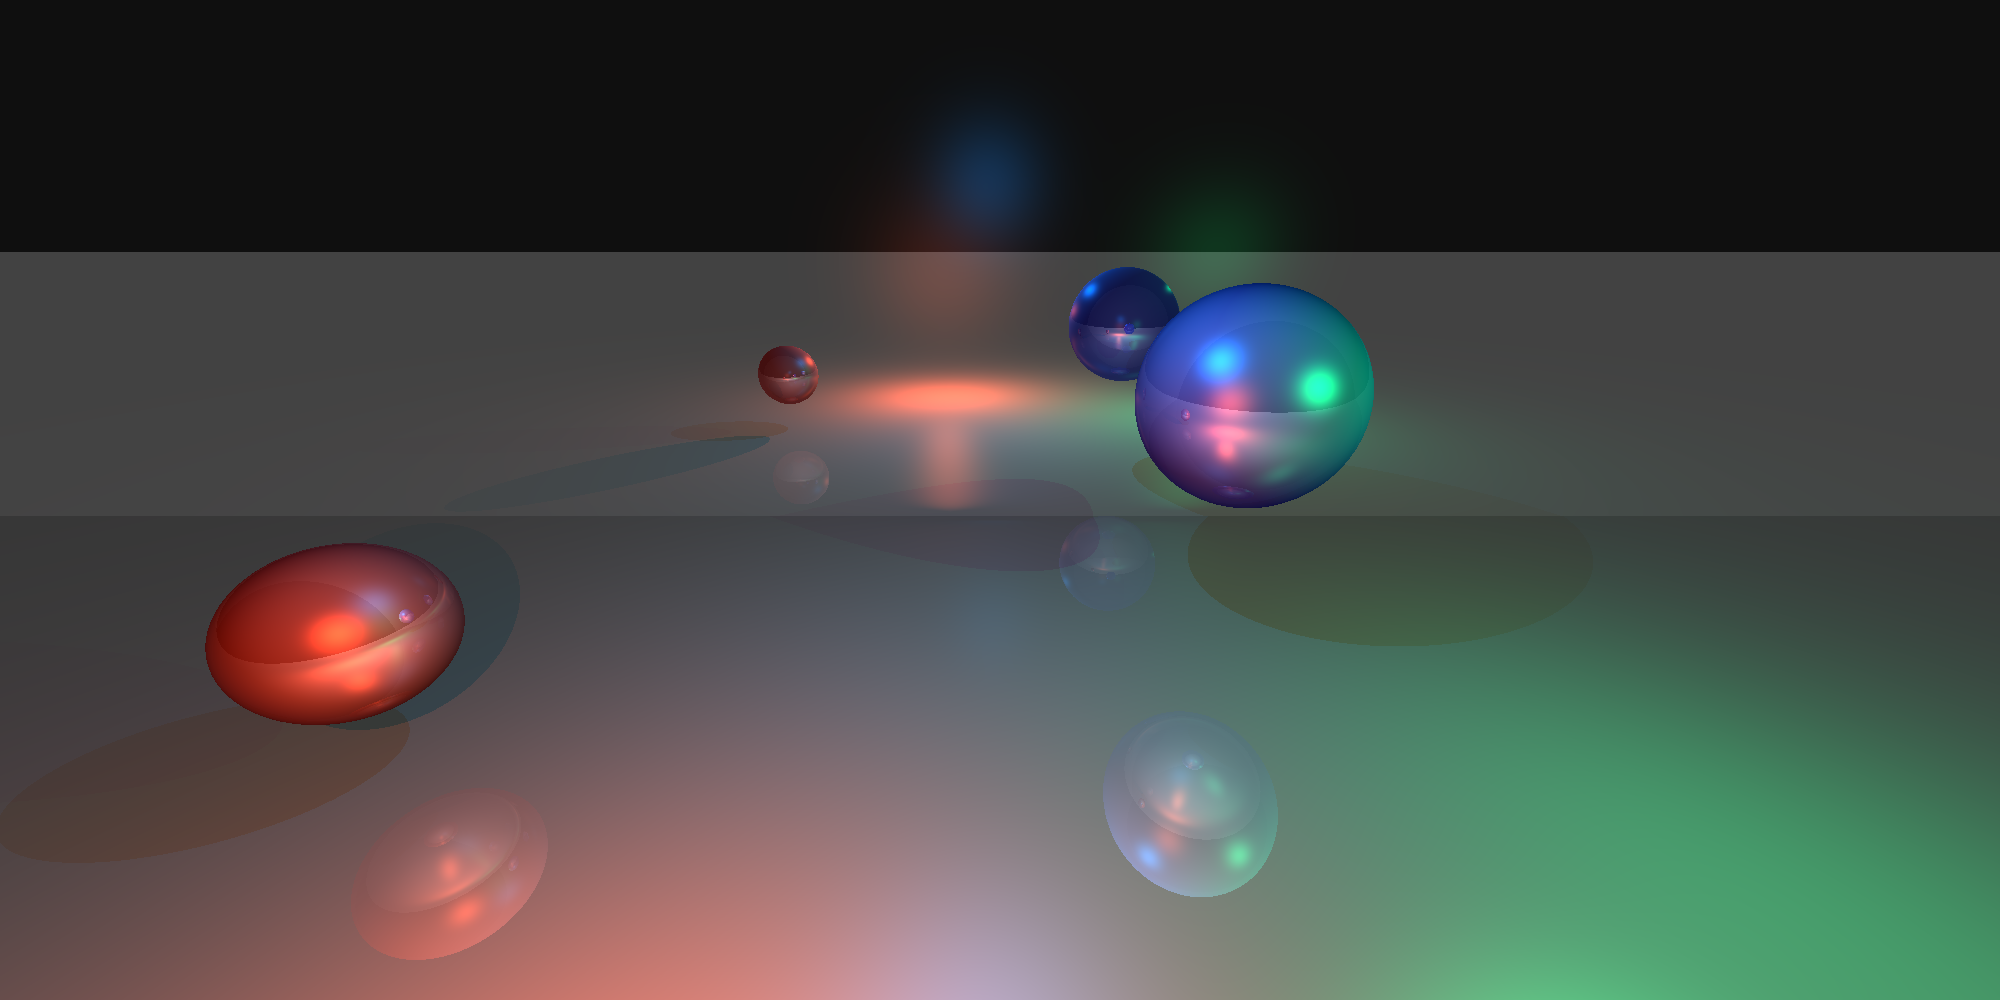
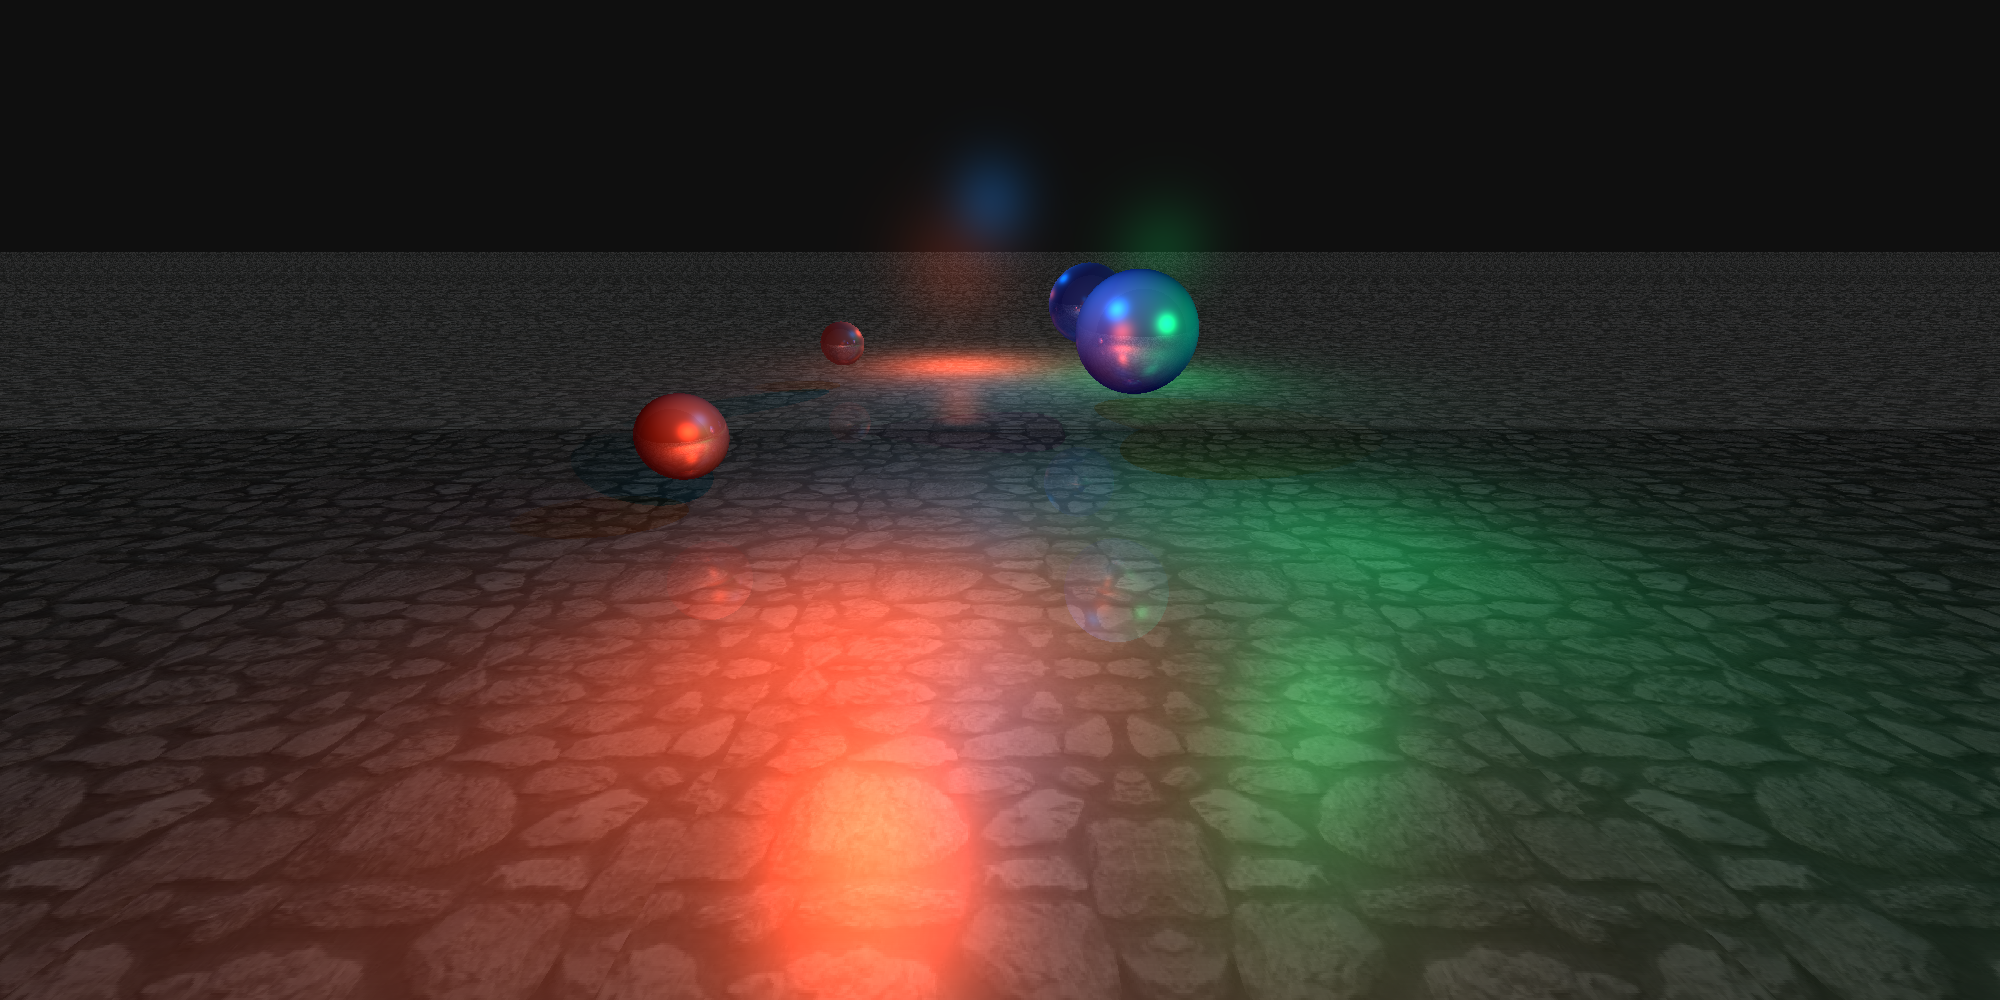
A primitive and successful texture mapping and implementation on planes

diff --git a/main.c b/main.c
@@ -12,7 +12,7 @@ int main() {
     cl_uint pheight = HEIGHT;
 
     rcamera camera = rinit_camera(
-        (cl_float3){.x = 0.8f, .y = 3.0f, .z = 0.0f},
+        (cl_float3){.x = 0.8f, .y = 3.0f, .z = -4.0f},
         (cl_float3){.x = 0.0f, .y = -0.4f, .z = 1.0f},
         120.0f, 1.0f
     );
